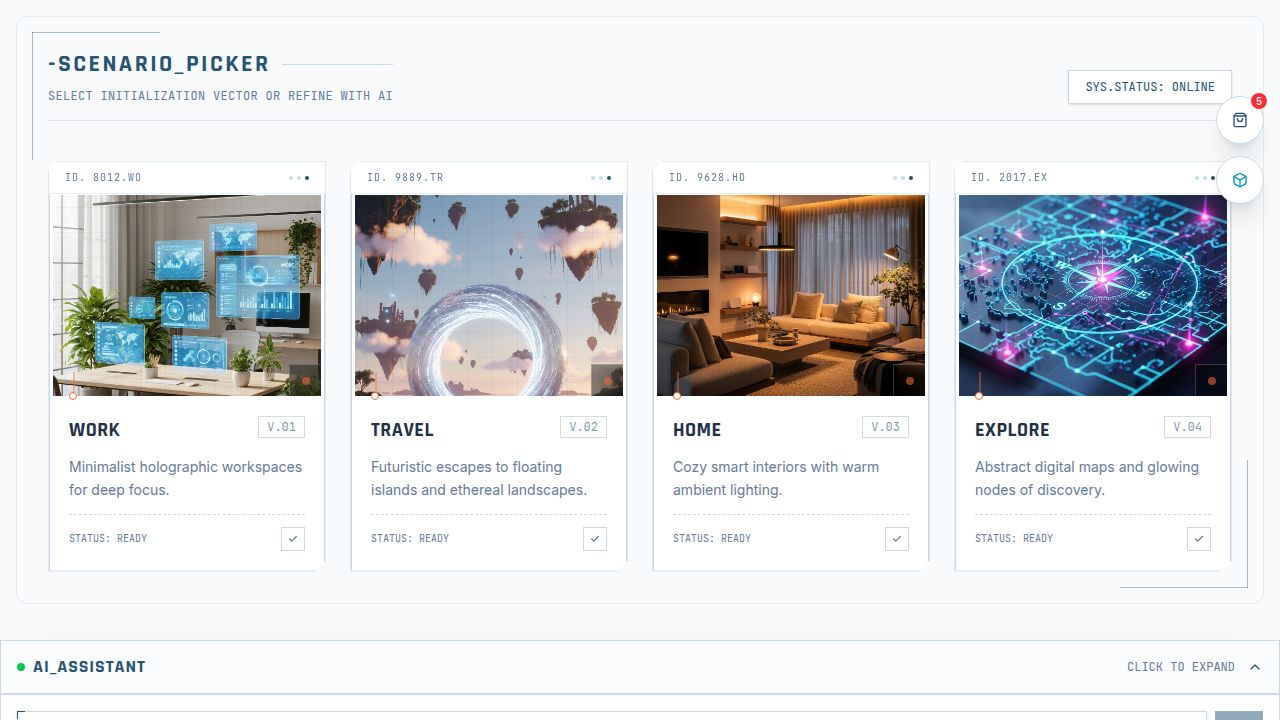
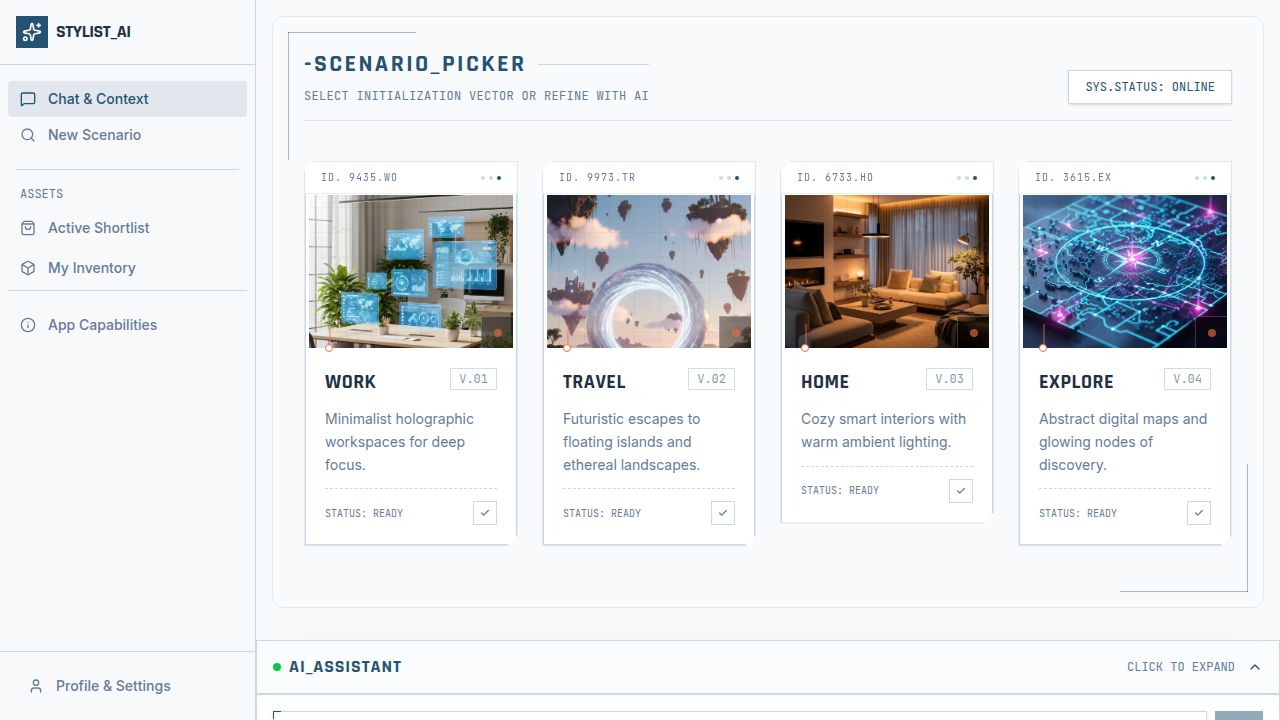
Add adaptive smart workflows to app capabilities overview
Add "Adaptive Smart Workflows" entry to the Features Overview component in client/src/components/features-overview.tsx, detailing AI's ability to generate and adapt custom workflows.

Replit-Commit-Author: Agent
Replit-Commit-Session-Id: c0ed6f2e-ffa8-45bc-8258-46ebee9709db
Replit-Commit-Checkpoint-Type: full_checkpoint
Replit-Commit-Event-Id: 1502cafb-c15f-4525-8b72-ef7a331653d8
Replit-Commit-Screenshot-Url: https://storage.googleapis.com/screenshot-production-us-central1/dabd3ff6-b555-4297-8c7f-c819fad10668/c0ed6f2e-ffa8-45bc-8258-46ebee9709db/g7Eidlj
Replit-Helium-Checkpoint-Created: true

diff --git a/client/src/components/features-overview.tsx b/client/src/components/features-overview.tsx
@@ -26,6 +26,12 @@ const FEATURES = [
         description: "Your Shortlist and Shopping List are living entities. The system learns instantly from what you save, reject, or hesitate on, refining its understanding of your taste in real-time."
     },
     {
+        category: "Workflow",
+        icon: GitMerge,
+        title: "Adaptive Smart Workflows",
+        description: "The AI creates custom workflows on the fly. Whether you're in a specific scenario or need a unique process, it generates and adapts steps dynamically to fit exactly what you need right now."
+    },
+    {
         category: "Discovery",
         icon: Sparkles,
         title: "Contextual AI Shopping",
